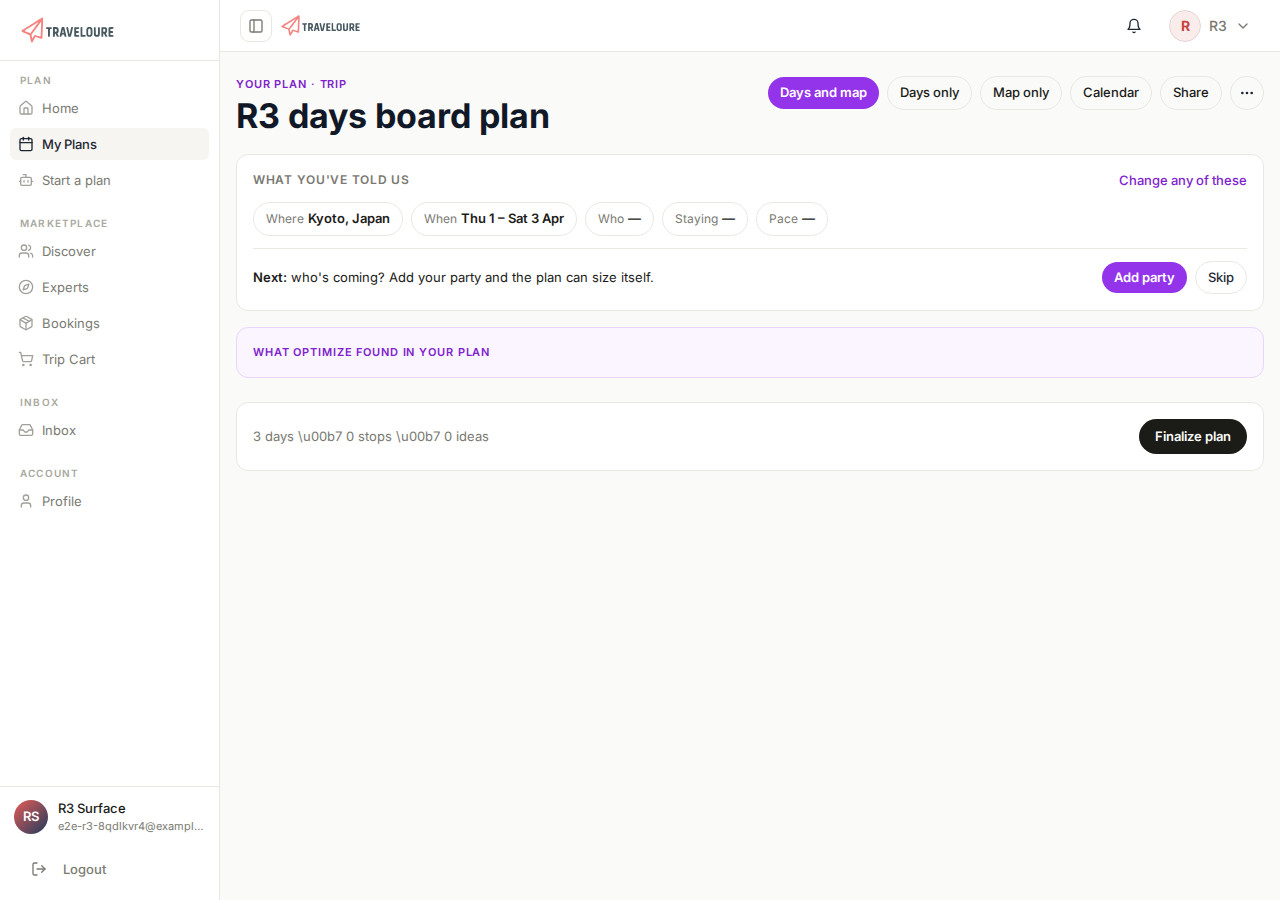
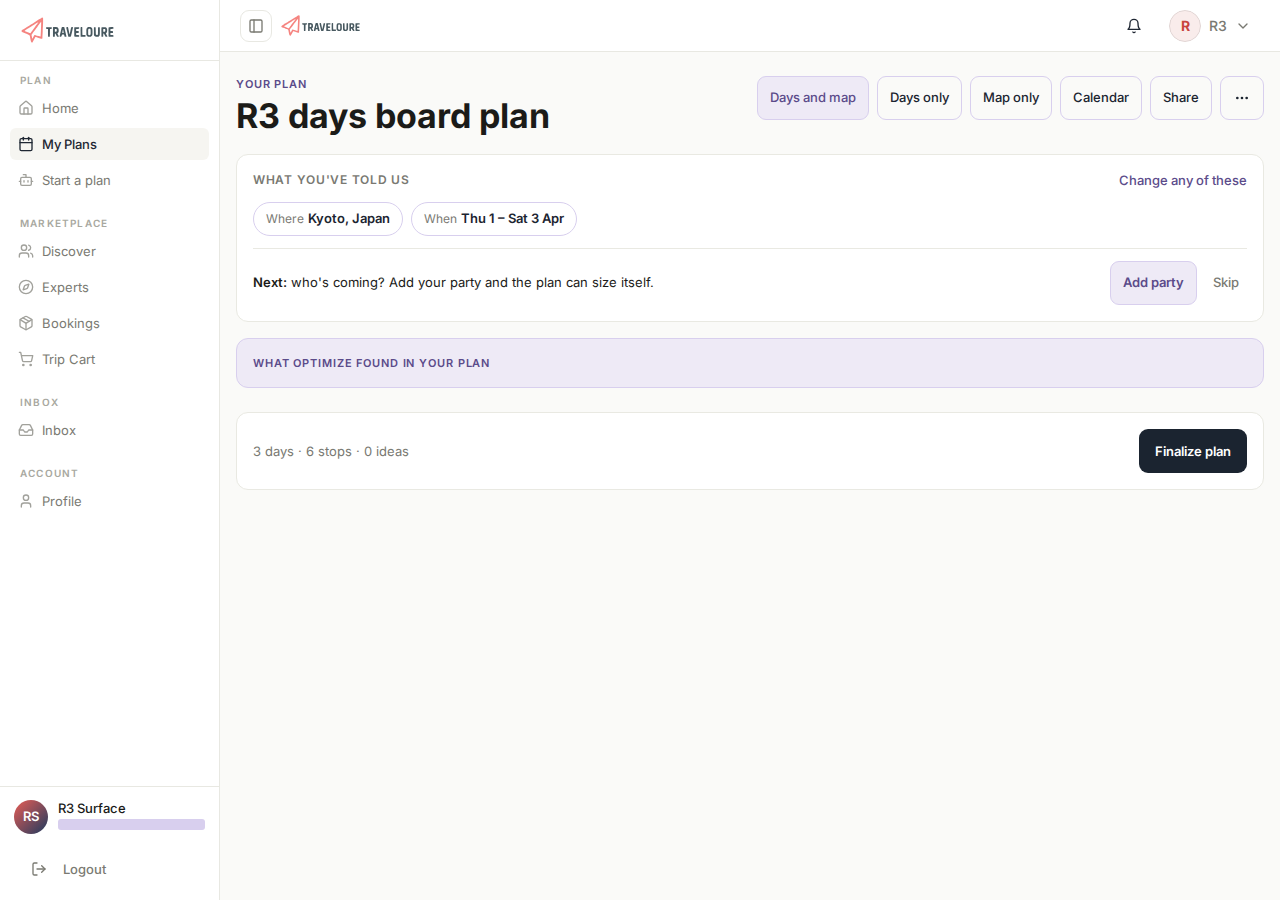
R3 P0: the board palette as tokens, so the page holds no hex literals

diff --git a/client/src/pages/r3/PlanningSurface.tsx b/client/src/pages/r3/PlanningSurface.tsx
@@ -21,7 +21,14 @@ const WEEKDAY = ["Sun", "Mon", "Tue", "Wed", "Thu", "Fri", "Sat"];
 const MONTH = ["Jan", "Feb", "Mar", "Apr", "May", "Jun", "Jul", "Aug", "Sep", "Oct", "Nov", "Dec"];
 
 // The board's palette, as hex, in one place.
-const BOARD = { text: "#5B4B8A", fill: "#EEEAF6", border: "#D8CFEE", ink: "#1B2430" } as const;
+// The board's palette, as tokens: the hex values live in `index.css` as `--r3-board-*`, because the page-hex guard
+// refuses literals in `client/src/pages`.
+const BOARD = {
+  text: "var(--r3-board-text)",
+  fill: "var(--r3-board-fill)",
+  border: "var(--r3-board-border)",
+  ink: "var(--r3-board-ink)",
+} as const;
 const boardOutline = { borderColor: BOARD.border, backgroundColor: BOARD.fill, color: BOARD.text } as const;
 
 /** "Tue 8 \u2013 Thu 10 Dec" from the plan's own dates; "" when the plan has none (the chip is then hidden). */

diff --git a/client/src/index.css b/client/src/index.css
@@ -5,6 +5,12 @@
 @tailwind utilities;
 
 :root {
+  /* Revision 3 board palette (Leon, Nov 22 2026): the board's own hex values, as tokens so the page holds no literals. */
+  --r3-board-text: #5b4b8a;
+  --r3-board-fill: #eeeaf6;
+  --r3-board-border: #d8cfee;
+  --r3-board-ink: #1b2430;
+
   /* Cut-list #1 header fix v2: the traveler chrome's nav height — the nav's own height AND the
      Trip Strip's sticky offset read this one value, so the two cannot drift. */
   --chrome-nav-h: 60px;
